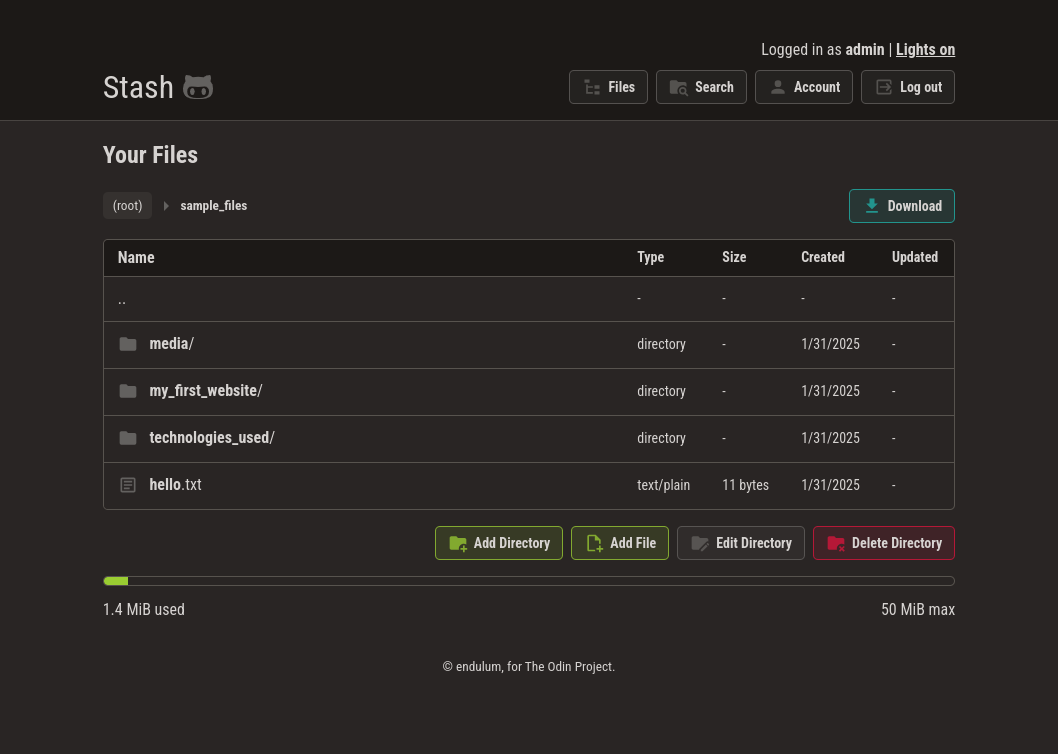
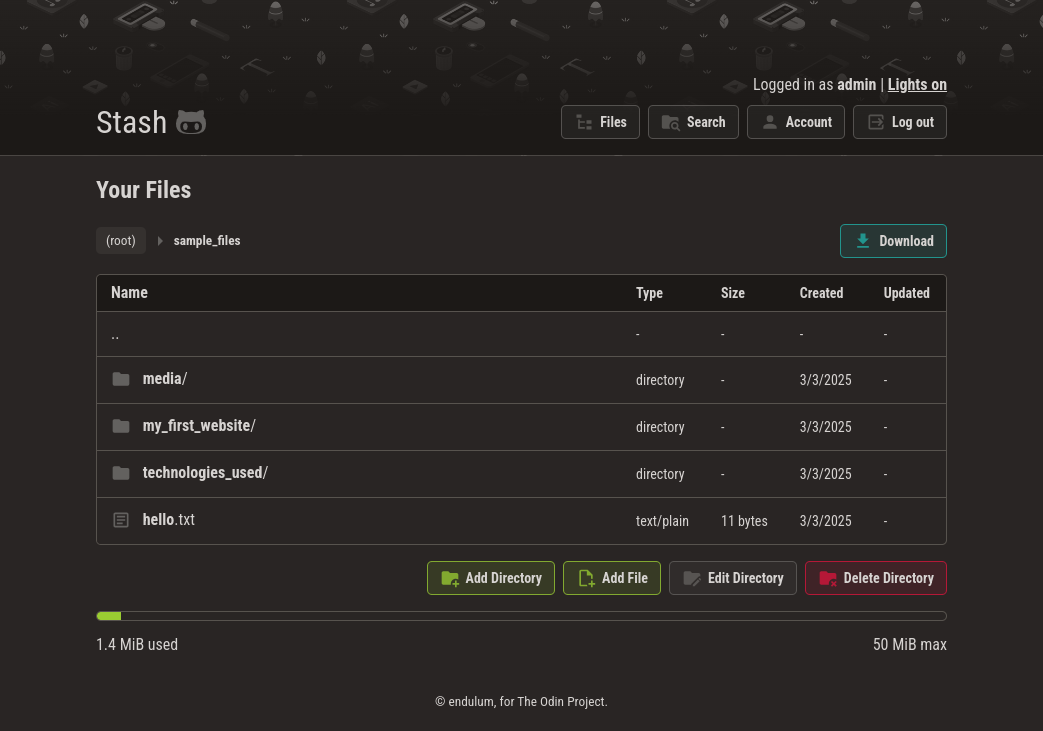
update readme and screenshot

diff --git a/README.md b/README.md
@@ -1,6 +1,6 @@
 # Stash
 
-A minimal implementation of a personal storage service.
+A file uploader.
 
 📓 [Project Spec](https://www.theodinproject.com/lessons/nodejs-file-uploader)
 
@@ -10,44 +10,82 @@ A minimal implementation of a personal storage service.
 
 ### Installation
 
+This is a Node.js project, so you will need Node installed.
+
 Navigate to the root directory where you'd like this project to be, and clone this repo:
 
-```
+```sh
 git clone https://github.com/endulum/stash
 ```
 
-Install all required packages:
+Navigate to the root of the newly cloned `/stash`, and install all required packages:
 
-```
+```sh
 npm install
 ```
 
-### Environment
+#### Docker
 
-This project uses three env files: `test`, `development`, and `production`. The repo supplies a file `.env.example` with the variables necessary for the project to run. Copy this file to the three envs described. A handy script for this is provided for you:
+This project is not totally Dockerized, but uses Docker for some containers of convenience. You will need Docker Compose installed to be able to run the Docker-related commands of this project.
 
-```
-npm run envinit
-```
+### Integrations and Environment
 
-### Required Integrations
+This project uses three env files: `test`, `development`, and `production`.  Stash supplies a file `.env.example` with the variables necessary for the project to run. Copy this file to  the three envs described. A handy script for this is provided for you, `npm run envinit`.
 
-Taking a look at `.env.example` should give you an idea of what integrations are necessary.
+As you can find in `.env.example`, this project uses the following integrations:
 
-**Database:** Stash uses Postgres to store account, session, and user filesystem information. `DATABASE_URL` will be your Postgres connection URI, and you'll also need `SESSION_SECRET` (it can be any string) for session storage to work.
+- PostgreSQL, as a database to store account and filesystem information. Needs `DATABASE_URL`.
+- Supabase, to store files and media. Needs `SUPABASE_URL` and `SUPABASE_SERVICE_KEY`.
+- GitHub App, to authorize accounts through GitHub. Needs `GITHUB_CLIENT_ID` and `GITHUB_CLIENT_SECRET`.
+- Redis, to cache file buffers for preview. Needs `REDIS_URL`.
 
-**GitHub App:** Stash _optionally_ allows accounts to be created through GitHub authentication. You'll need a [GitHub app](https://github.com/settings/apps) of your own to fill in `GITHUB_CLIENT_ID` and `GITHUB_CLIENT_SECRET`.
+#### PostgreSQL
 
-**Supabase:** Barring `test` env mode, Stash requires Supabase to store file data. Stash expects two Supabase buckets, `stash_development` and `stash_production`, as well as the Supabase project's service key.
+You need an existing PostgreSQL database somewhere and its connection URI. 
 
-**Redis:** Barring `test` env mode, Stash requires Redis to cache static file serving. For convenience, this project uses Docker to provide a Redis image, and the prefilled `REDIS_URL` value reflects the port used.
+Note that an independent Postgres database for testing is provided by Docker in this project, so for your `.env.test`, you can have the URI point to that database:
 
-### Testing
-
-This project uses Docker to provide an independent Postgres database for testing. For your `.env.test`, make sure the database URL points to that database:
-
-```
+```env
 DATABASE_URL=postgresql://prisma:prisma@localhost:5433/tests
 ```
 
 The script `npm run test` handles bringing up the container, applying any migrations present, and running the tests.
+
+#### Supabase
+
+You need a Supabase account with an active project. Stash utilizes the Supabase Storage filesystem, and needs your project URL and `service_role` key. You can find both under the **Data API** tab of your project settings. Stash expects and utilizes two Supabase buckets, `stash_development` and `stash_production`. 
+
+Note that the Supabase module of this project is not utilized in the `test` environment.
+
+#### GitHub App
+
+Stash needs the client ID and secret of an active GitHub app. 
+
+Note that GitHub authentication is not utilized in the `test` environment.
+
+#### Redis
+
+Stash needs the URI of a Redis database. This project provides a Docker image for a Redis cache for your convenience, so for your `.env.development`, you can have the URI point to that cache:
+
+```env
+REDIS_URL=redis://localhost:6379
+```
+
+Note that Redis caching is not utilized in the `test` environment.
+
+#### Other
+
+Stash needs to know its own `DEPLOYMENT_URL` to determine whether to use secure cookies, to provide file previews, and to create a callback URL for GitHub authentication.
+
+Stash needs a `SESSION_SECRET` to sign stored sessions with. It can be any string.
+
+### Starter Data
+
+Stash supplies a `reset` script that performs the following:
+
+- Connects to your Supabase bucket and empties it.
+- Truncates the `User` and `Session` Postgres tables, emptying all possible database records by cascade.
+- Creates one admin account.
+- Executes a script to recursively read files in `supabase/sample_files`, add them as records to the database, and upload them to Supabase.
+
+The `sample_files` directory contains some text and media, and can be freely edited to contain any files you wish.
